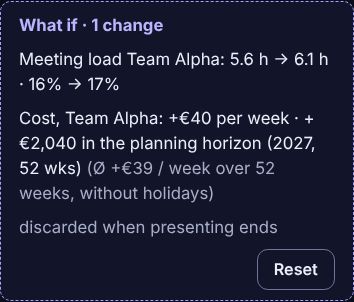
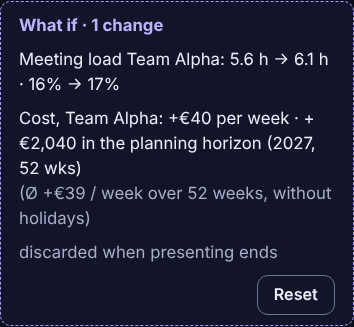
Address review on the period cost note (#512)

diff --git a/tests/e2e/costs.spec.ts b/tests/e2e/costs.spec.ts
@@ -1,6 +1,14 @@
 import AxeBuilder from '@axe-core/playwright';
 import { expect, test, type Page } from '@playwright/test';
-import { openExample, pickUnit, setLanguage, showView } from './helpers';
+import {
+  openExample,
+  openWorkspaceFile,
+  pickUnit,
+  setLanguage,
+  showView,
+  useFileFallback,
+} from './helpers';
+import example from '../../src/data/examples/example.caldence.json' with { type: 'json' };
 
 test.use({ locale: 'en-US' });
 
@@ -221,4 +229,22 @@ test('an on-site meeting adds its travel time to cost and load (#309)', async ({
   await form.getByRole('button', { name: 'Save' }).click();
   await expect(sync.locator('[data-place]')).toHaveCount(0);
   await expect(sync.locator('[data-cost]')).toContainText('Ø €50 / week');
+});
+
+test('a 13-week planning horizon spreads the period cost over 13 weeks (#512)', async ({
+  page,
+}) => {
+  await useFileFallback(page);
+  await page.setViewportSize({ width: 1440, height: 900 });
+  await page.goto('/');
+  const ws = structuredClone(example) as typeof example & { settings: { hourlyRate?: number } };
+  ws.settings.locale = 'en';
+  ws.settings.hourlyRate = 100;
+  ws.settings.horizon = { ...ws.settings.horizon, from: '2027-03-01', to: '2027-05-30' };
+  await openWorkspaceFile(page, ws, 'plan.caldence.json');
+  await pickUnit(page, 'Team Alpha');
+  await tab(page, 'Meeting load');
+  await expect(page.locator('[data-costs] [data-cost-horizon-note]')).toContainText(
+    / \/ week over 13 weeks, without holidays/,
+  );
 });

diff --git a/src/i18n/index.ts b/src/i18n/index.ts
@@ -42,15 +42,15 @@ export function formatDisplayDate(locale: Locale, d: ISODate, style: 'short' | '
   return new Intl.DateTimeFormat(locale, { ...options, timeZone: 'UTC' }).format(utc);
 }
 
-/**
- * The planning horizon as cost labels name it: "2027, 52 Wo." for a full calendar year,
- * otherwise "01.03.2027–30.05.2027, 13 Wo.".
- */
 /** The weeks of the planning horizon, at least one: what the period cost spreads over (#512). */
 export function horizonWeeks(horizon: { from: ISODate; to: ISODate }): number {
   return Math.max(1, Math.round((diffDays(horizon.to, horizon.from) + 1) / 7));
 }
 
+/**
+ * The planning horizon as cost labels name it: "2027, 52 Wo." for a full calendar year,
+ * otherwise "01.03.2027–30.05.2027, 13 Wo.".
+ */
 export function formatHorizon(locale: Locale, horizon: { from: ISODate; to: ISODate }): string {
   const { from, to } = horizon;
   const year = from.slice(0, 4);

diff --git a/src/ui/components/WhatIfBar.svelte b/src/ui/components/WhatIfBar.svelte
@@ -70,7 +70,7 @@
             value: signedEuro(after.cost.perWeek - before.cost.perWeek),
             horizonValue: signedEuro(after.cost.horizon - before.cost.horizon),
           })}
-          <span class="muted" data-whatif-horizon-note>
+          <span class="muted why" data-whatif-horizon-note>
             ({$t('cost.horizon.avg', {
               amount: signedEuro((after.cost.horizon - before.cost.horizon) / $horizonWeekCount),
               n: $horizonWeekCount,
@@ -96,6 +96,11 @@
 </section>
 
 <style>
+  @media (max-width: 40rem) {
+    .why {
+      display: block;
+    }
+  }
   .whatif-bar {
     display: flex;
     flex-wrap: wrap;

diff --git a/tests/e2e/area-overview.spec.ts b/tests/e2e/area-overview.spec.ts
@@ -657,6 +657,10 @@ test('with a rate the overview shows cost per team and the most expensive meetin
   await expect(overview.locator('[data-kpi="cost"]')).toContainText(
     'in the planning horizon (2027, 52\u00a0wks)',
   );
+  // Why weekly × 52 differs from the year figure (#512).
+  await expect(overview.locator('[data-kpi="cost"] [data-cost-horizon-note]')).toContainText(
+    / \/ week over 52 weeks, without holidays/,
+  );
   await table.getByRole('button', { name: 'in the planning horizon (2027, 52\u00a0wks)' }).click();
   await expect(
     table.getByRole('columnheader', { name: 'Cost in the planning horizon (2027, 52\u00a0wks)' }),
